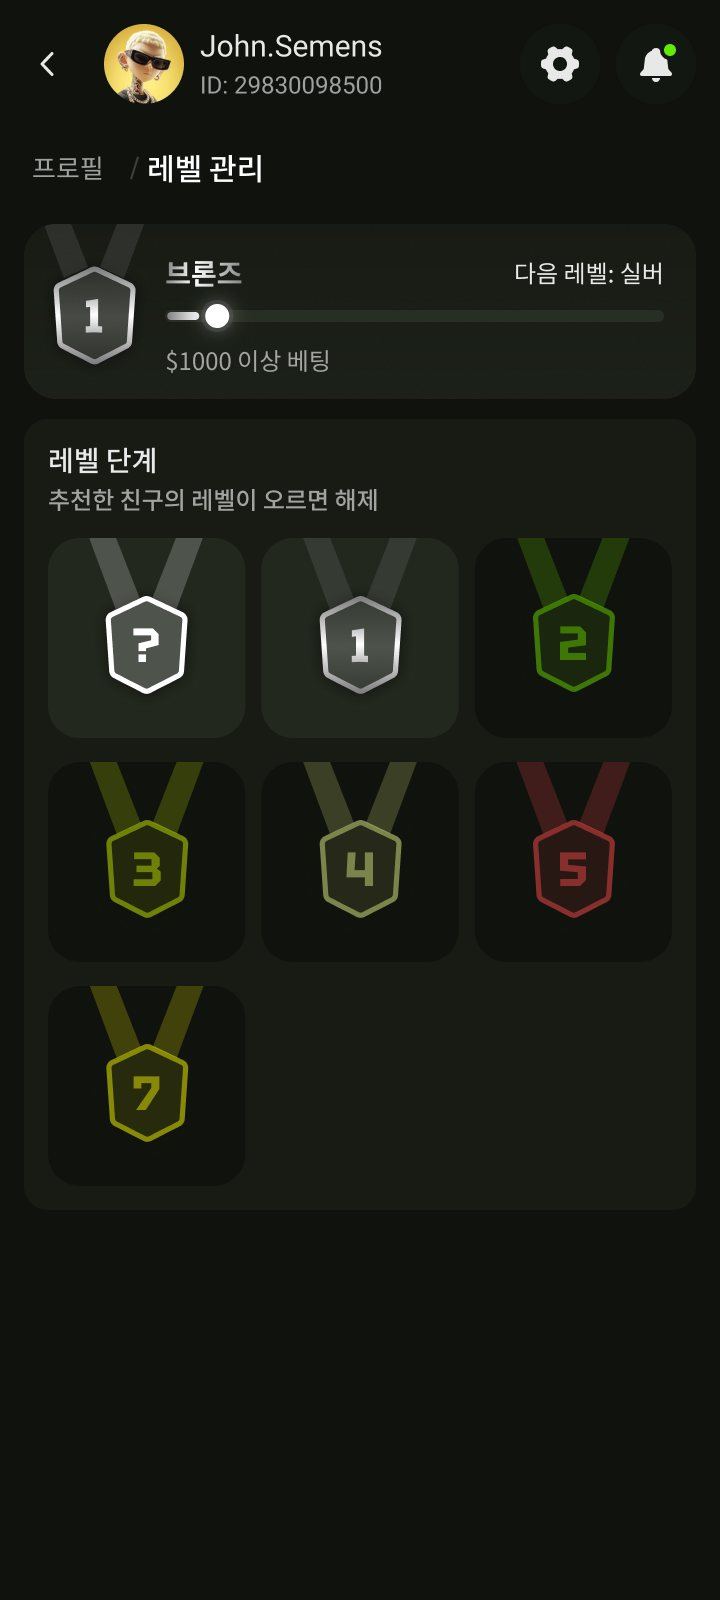
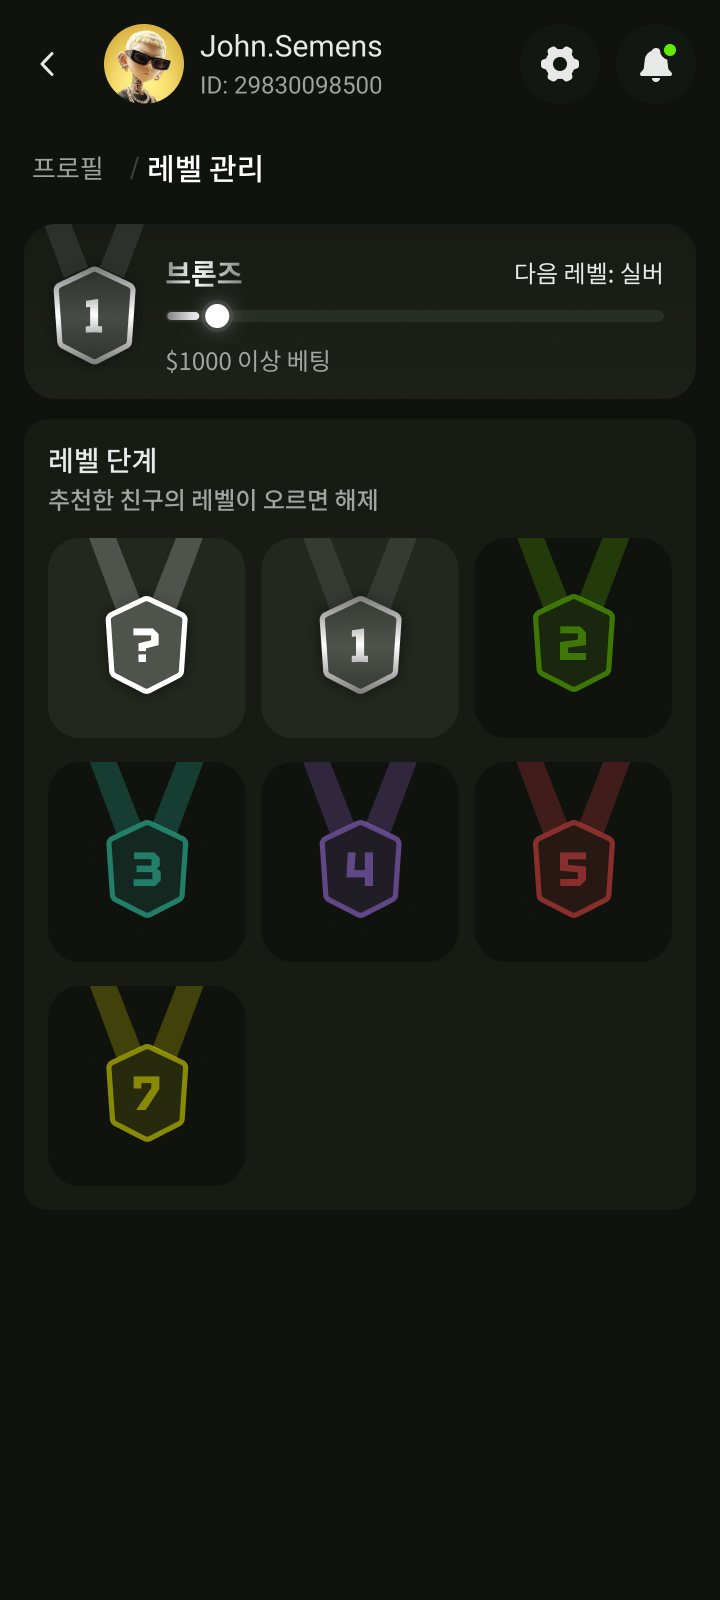
Restore teal and purple on level badges 3 and 4

Changed region(s): [[0.4278, 0.4688, 0.5806, 0.5938], [0.1222, 0.4688, 0.275, 0.5938]]

diff --git a/index.html b/index.html
@@ -31,7 +31,7 @@
   <link rel="preconnect" href="https://fonts.googleapis.com">
   <link rel="preconnect" href="https://fonts.gstatic.com" crossorigin>
   <link href="https://fonts.googleapis.com/css2?family=Inter:wght@400;500;600;700&family=Noto+Sans+KR:wght@400;500;700;900&family=Tektur:wght@500;600;700;900&display=swap" rel="stylesheet">
-  <link rel="stylesheet" href="css/style.css?v=202611051613">
+  <link rel="stylesheet" href="css/style.css?v=202611051634">
 </head>
 <body>
   <a class="skip-link" href="#main" data-i18n="skip">Skip to content</a>
@@ -208,8 +208,8 @@
     </form>
   </div>
 
-  <script src="js/icons.js?v=202611051613"></script>
-  <script src="js/features.js?v=202611051613"></script>
-  <script src="js/main.js?v=202611051613"></script>
+  <script src="js/icons.js?v=202611051634"></script>
+  <script src="js/features.js?v=202611051634"></script>
+  <script src="js/main.js?v=202611051634"></script>
 </body>
 </html>
